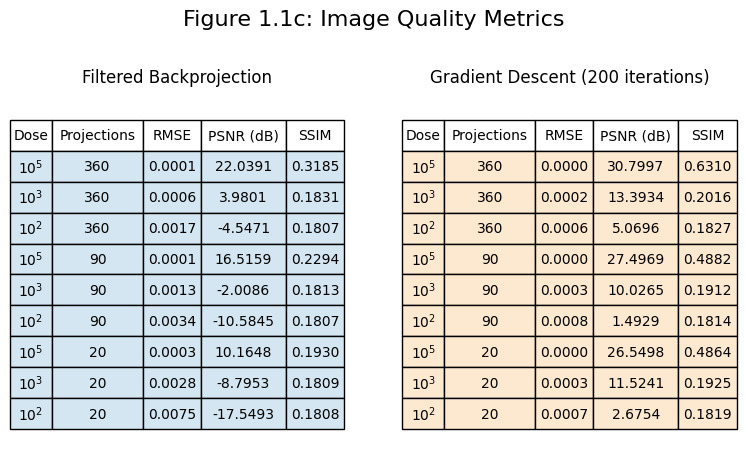
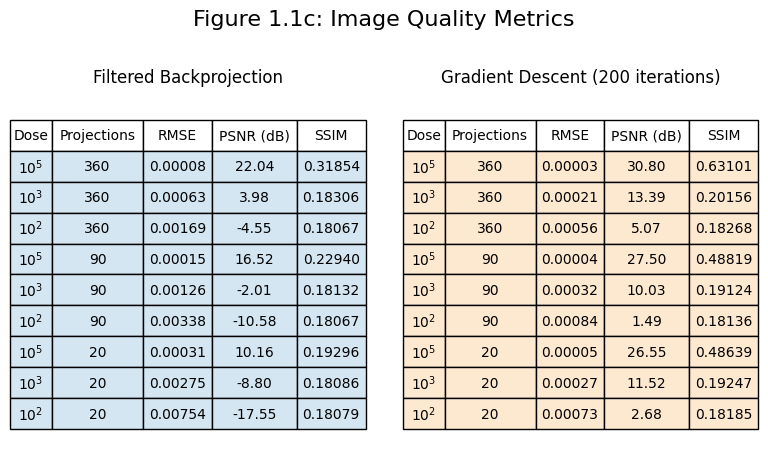
Ex 1.3 solutions

diff --git a/medical_imaging/module_1.py b/medical_imaging/module_1.py
@@ -215,9 +215,9 @@ def metrics_tables(image, recons_fbp, recons_gd, row_values, angle_counts, title
                 results_list.append({
                     'row'   : row_label,
                     'angles' : str(ang),
-                    'rmse'   : f'{rmse:.4f}',
-                    'psnr'   : f'{psnr:.4f}',
-                    'ssim'   : f'{ssim:.4f}',
+                    'rmse'   : f'{rmse:.5f}',
+                    'psnr'   : f'{psnr:.2f}',
+                    'ssim'   : f'{ssim:.5f}',
                 })
 
     # build tables, using pale colors to differentiate algorithms
@@ -253,6 +253,7 @@ def error_maps(image, recons_fbp, recons_gd, row_values, angle_counts, title='Ab
 
     """Plot two grids of absolute error maps for FBP and GD reconstructions."""
 
+    # set image dimensions
     h, w = image.shape
 
     # two 3x3 grids side by side
@@ -300,3 +301,128 @@ def error_maps(image, recons_fbp, recons_gd, row_values, angle_counts, title='Ab
 # ---------------------------------------------------------------------------
 
 # I added use_angle_labels=False to all the functions above to make them reusable for both dose and angle range comparisons
+
+# ---------------------------------------------------------------------------
+# Exercise 1.3a: FBP filters
+# ---------------------------------------------------------------------------
+
+# ---------------------------------------------------------------------------
+# Exercise 1.3b: Filter comparison
+# ---------------------------------------------------------------------------
+
+def plot_comparisons(image, recons, title='Algorithm Comparison'):
+
+    """Plot ground truth alongside reconstructions using different algorithms."""
+
+    # number of recons determines subplots
+    n = len(recons)
+
+    fig, axes = plt.subplots(1, n + 1, figsize=(4 * (n + 1), 5))
+    fig.suptitle(title, fontsize=16, y=1.02)
+
+    # # display original image with a grayscale colormap, setting vmin/vmax for consistent scaling
+    axes[0].imshow(image, cmap='gray', vmin=0, vmax=image.max())
+    axes[0].set_title('Ground Truth', fontsize=10)
+    axes[0].axis('off')                                
+
+    # plot each reconstruction in remaining subplots
+    for ax, (name, recon) in zip(axes[1:], recons.items()):
+
+        # set image dimensions
+        h, w = image.shape
+
+        # compute metrics, setting data range to max pixel value for scaling
+        rmse = float(np.sqrt(np.mean((image - recon[:h, :w]) ** 2)))
+        psnr = float(peak_signal_noise_ratio(image, recon[:h, :w], data_range=image.max()))
+        ssim = float(structural_similarity(image, recon[:h, :w], data_range=image.max()))
+
+        # display reconstruction with a grayscale colormap, setting vmin/vmax for consistent scaling, 
+        ax.imshow(recon[:h, :w], cmap='gray', vmin=0, vmax=image.max())
+
+         # format title with filter name bold and metrics on one line below
+        ax.set_title(f'{name}\nRMSE={rmse:.5f} | PSNR={psnr:.2f} dB | SSIM={ssim:.5f}', fontsize=10)
+
+        ax.axis('off')
+
+    plt.tight_layout()
+
+# ---------------------------------------------------------------------------
+# Exercise 1.3c: OS-SART comparison
+# ---------------------------------------------------------------------------
+
+def reconstruct_os(sinogram_noisy, theta, n_subsets=10, n_iterations=20, gamma=0.001):
+
+    """Reconstruct a CT image using OS-SART (mini-batch gradient descent). """
+
+    # initialise the estimate as all zeros
+    os = np.zeros((sinogram_noisy.shape[0], sinogram_noisy.shape[0]))
+
+    # create lists to store residual norm
+    residuals = []
+    n_angles  = len(theta)
+
+    # split angles into subsets, spreading out the angles in each set to cover full range
+    subset_indices = [np.arange(s, n_angles, n_subsets) for s in range(n_subsets)]
+
+    for _ in range(n_iterations):
+
+        for idx in subset_indices:
+
+            # extract subset sinogram and angles
+            sinogram_subset  = sinogram_noisy[:, idx]
+            theta_subset = theta[idx]
+
+            # compute forward projection and calculate residual for subset
+            residual = radon(os, theta=theta_subset) - sinogram_subset
+
+            # backproject residual to get gradient
+            update = - gamma * iradon(residual, theta=theta_subset, filter_name=None)
+
+            # update image estimate
+            os = os + update
+
+        # compute and store residual norm at end of each iteration
+        full_residual = radon(os, theta=theta) - sinogram_noisy
+        residuals.append(np.linalg.norm(full_residual))
+
+    # clip to remove any negative values from noise
+    os = np.clip(os, 0, None)
+
+    return os, residuals
+
+# reused plot_comparisons function from above to compare SIRT and OS-SART reconstructions
+
+def plot_convergence(res_sirt, res_ossart, title='SIRT vs OS-SART Convergence'):
+
+    """Plot convergence curves for SIRT and OS-SART on a shared iteration axis """
+
+    # added to help format tick labels
+    from matplotlib.ticker import ScalarFormatter
+
+    _, ax = plt.subplots(figsize=(9, 6))
+
+    # plot SIRT residuals
+    ax.plot(res_sirt, label='SIRT', color='C0', linewidth=1.5)
+
+    # create x positions so we can plot on same axis as SIRT
+    ossart_x = np.linspace(0, len(res_sirt), len(res_ossart))
+
+    # plot OS-SART residuals
+    ax.plot(ossart_x, res_ossart, label='OS-SART', color='C1', linewidth=1.5)
+
+    # set labels and title
+    ax.set_xlabel('Equivalent full iterations')
+    ax.set_ylabel('Residual norm $\\|Ax^k - b\\|$')
+    ax.set_title(title)
+    
+    # add legend
+    ax.legend()
+
+    # Add a faint grid for better readability
+    ax.grid(True, alpha=0.3, linewidth=0.5)
+
+    plt.tight_layout()
+
+# ---------------------------------------------------------------------------
+# End of Module 1 code
+# ---------------------------------------------------------------------------